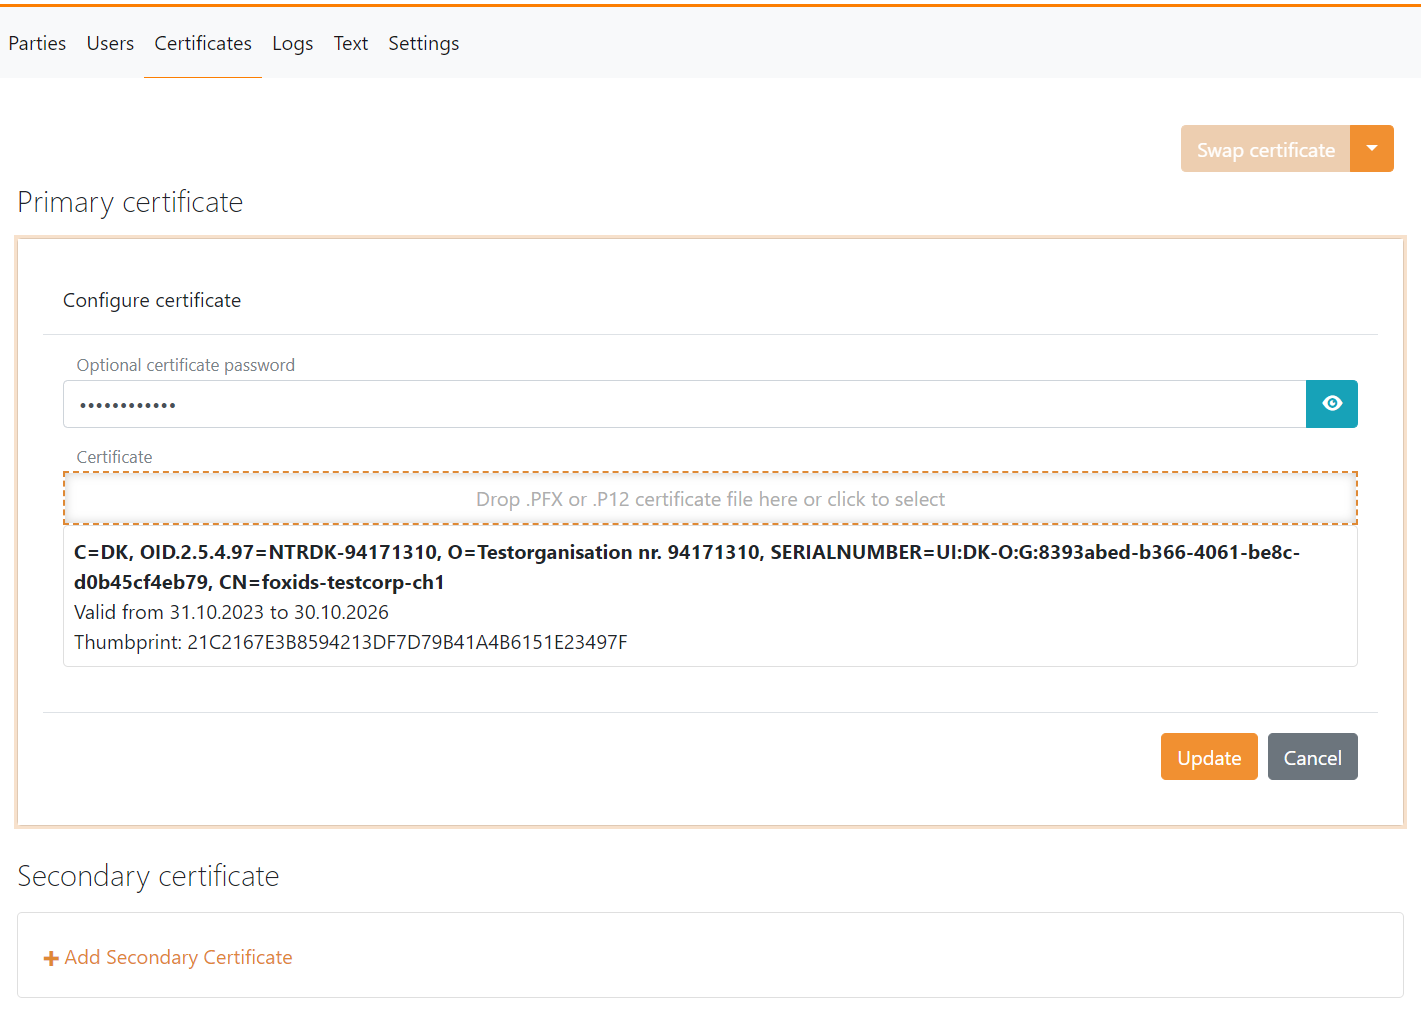
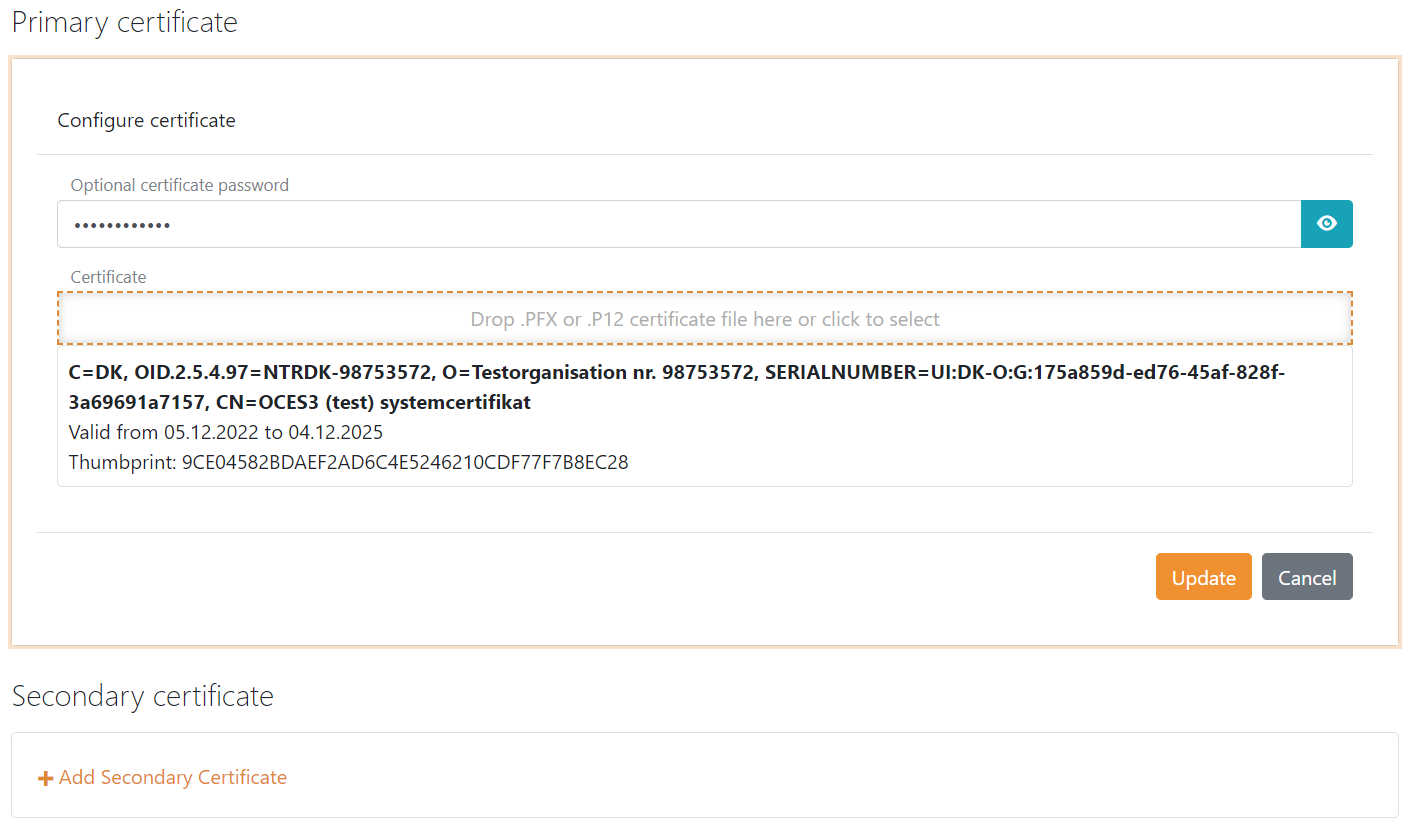
add context-handler-certificate.png

diff --git a/docs/howto-saml-2.0-context-handler.md b/docs/howto-saml-2.0-context-handler.md
@@ -37,7 +37,7 @@ Add the `.P12` OCES3 certificate in [FoxIDs Control Client](control.md#foxids-co
 3. Click the arrow down on the Swap certificate button and then in the Contained certificates section click Change container type
 4. Then click on the primary certificate, then write the password and upload the `.P12` OCES3 certificate 
 
-![Add OCES3 certificate](images/howto-saml-nemlogin3-certificate.png)
+![Add OCES3 certificate](images/howto-saml-context-handler-certificate.png)
 
 It is subsequently possible to add a secondary certificate and to swap between the primary and secondary certificates.
 
